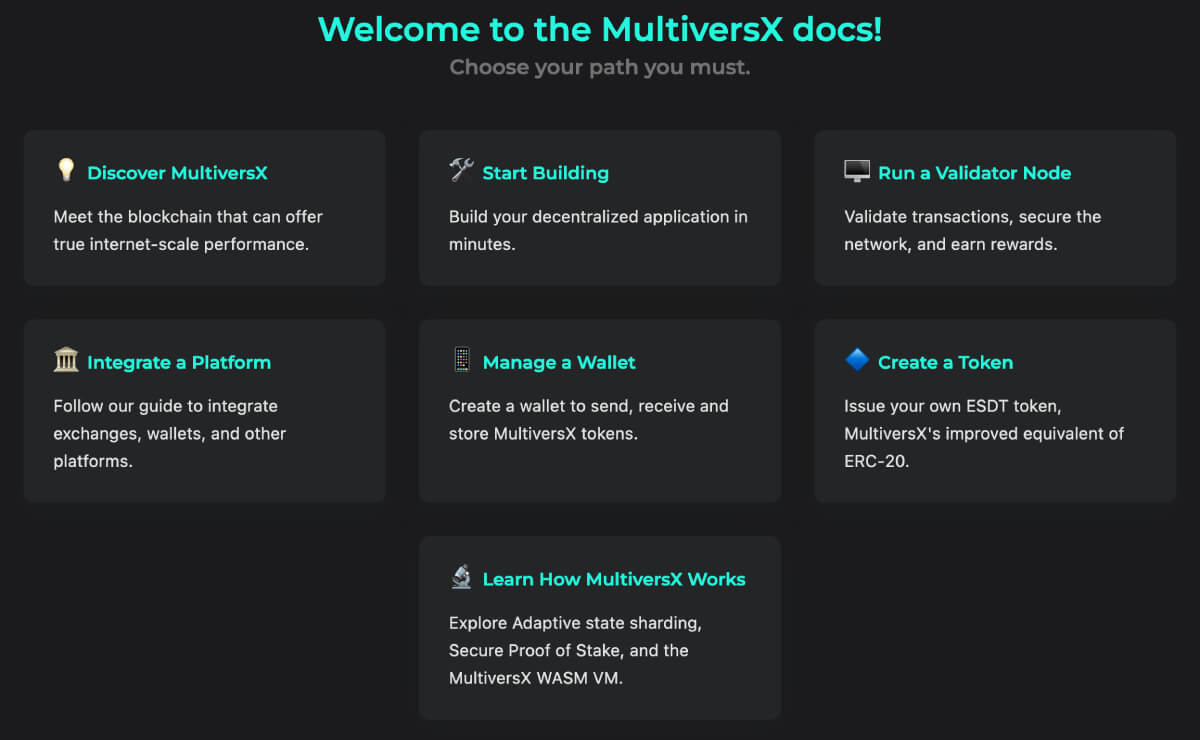
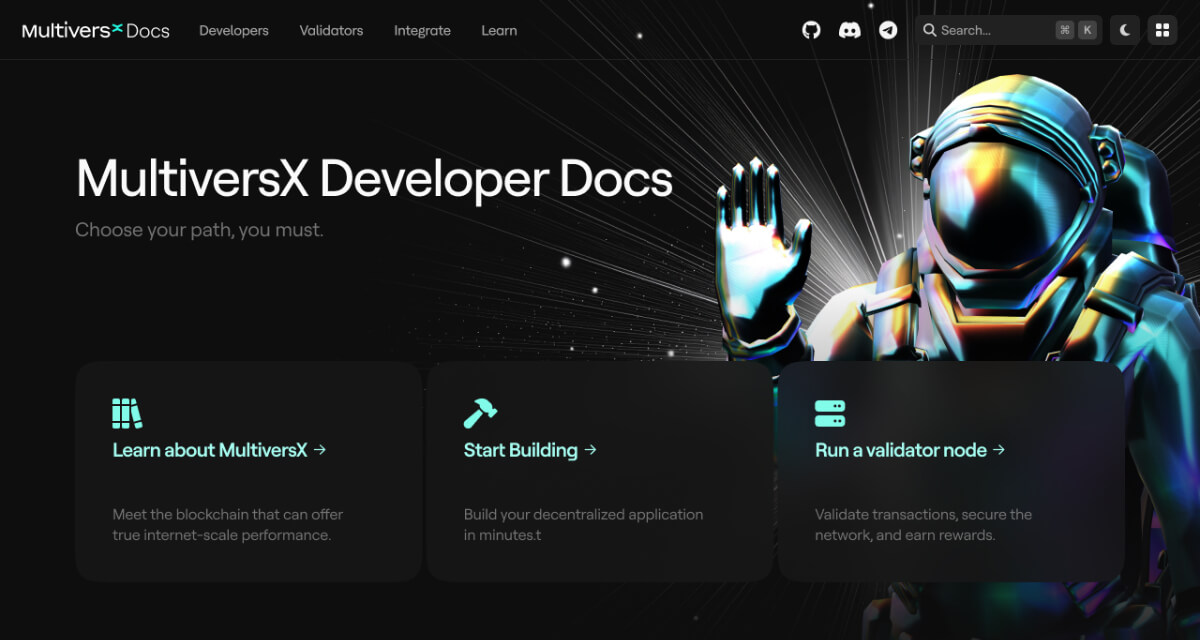
updated manifest

diff --git a/src/components/Section/components/SectionCard.jsx b/src/components/Section/components/SectionCard.jsx
@@ -14,19 +14,60 @@ export const SectionCard = ({
 }) => {
   if (isSmallCard) {
     return (
+      <li>
+        <Link
+          to={link}
+          className={clsx(
+            "section-small-card section-small-shadow w-auto h-[196px] p-10 rounded-2xl border border-solid border-white/5 backdrop-blur-[52px] justify-between items-end inline-flex hover:no-underline bg-white hover:bg-teal-50 dark:bg-transparent dark:hover:bg-neutral-900/80",
+            className
+          )}
+        >
+          <div className="grow shrink basis-0 self-stretch rounded-2xl flex-col justify-between items-start inline-flex">
+            <div className="self-stretch flex-col justify-start items-start gap-3 flex">
+              <div className="justify-start items-center gap-1 inline-flex">
+                <div className="text-primary text-lg font-semibold leading-normal">
+                  {title}
+                </div>
+                <div className="w-4 h-4 justify-center items-center flex">
+                  <FontAwesomeIcon
+                    icon={faArrowRight}
+                    className="text-center text-primary text-sm"
+                  />
+                </div>
+              </div>
+            </div>
+            <p className="ms-0 mb-0 self-stretch text-neutral-500 text-sm leading-tight">
+              {text}
+            </p>
+          </div>
+        </Link>
+      </li>
+    );
+  }
+
+  return (
+    <li>
       <Link
         to={link}
         className={clsx(
-          "section-small-card section-small-shadow w-auto h-[196px] p-10 rounded-2xl border border-solid border-white/5 backdrop-blur-[52px] justify-between items-end inline-flex hover:no-underline bg-white hover:bg-teal-50 dark:bg-transparent dark:hover:bg-neutral-900/80",
+          "section-card section-shadow grow shrink basis-0 h-[236px] p-10 rounded-3xl backdrop-blur-[50px] justify-between items-end flex hover:no-underline bg-white hover:bg-teal-50 dark:bg-neutral-900/80 dark:hover:bg-neutral-800/80",
           className
         )}
       >
         <div className="grow shrink basis-0 self-stretch rounded-2xl flex-col justify-between items-start inline-flex">
-          <div className="self-stretch flex-col justify-start items-start gap-3 flex">
-            <div className="justify-start items-center gap-1 inline-flex">
-              <dt className="text-primary text-lg font-semibold leading-normal">
+          <div className="self-stretch h-[65px] flex-col justify-start items-start gap-3 flex">
+            {icon && (
+              <div className="justify-center items-center inline-flex">
+                <FontAwesomeIcon
+                  icon={icon}
+                  className="card-icon text-center text-primary text-[32px] font-black"
+                />
+              </div>
+            )}
+            <div className="self-stretch justify-start items-center gap-1 inline-flex">
+              <div className="text-primary text-[21px] font-semibold leading-[21px]">
                 {title}
-              </dt>
+              </div>
               <div className="w-4 h-4 justify-center items-center flex">
                 <FontAwesomeIcon
                   icon={faArrowRight}
@@ -35,46 +76,9 @@ export const SectionCard = ({
               </div>
             </div>
           </div>
-          <dd className="ms-0 self-stretch text-neutral-500 text-sm leading-tight">
-            {text}
-          </dd>
+          <p className="ms-0 mb-0 text-neutral-500 leading-snug">{text}</p>
         </div>
       </Link>
-    );
-  }
-
-  return (
-    <Link
-      to={link}
-      className={clsx(
-        "section-card section-shadow grow shrink basis-0 h-[236px] p-10 rounded-3xl backdrop-blur-[50px] justify-between items-end flex hover:no-underline bg-white hover:bg-teal-50 dark:bg-neutral-900/80 dark:hover:bg-neutral-800/80",
-        className
-      )}
-    >
-      <div className="grow shrink basis-0 self-stretch rounded-2xl flex-col justify-between items-start inline-flex">
-        <div className="self-stretch h-[65px] flex-col justify-start items-start gap-3 flex">
-          {icon && (
-            <div className="justify-center items-center inline-flex">
-              <FontAwesomeIcon
-                icon={icon}
-                className="card-icon text-center text-primary text-[32px] font-black"
-              />
-            </div>
-          )}
-          <div className="self-stretch justify-start items-center gap-1 inline-flex">
-            <dt className="text-primary text-[21px] font-semibold leading-[21px]">
-              {title}
-            </dt>
-            <div className="w-4 h-4 justify-center items-center flex">
-              <FontAwesomeIcon
-                icon={faArrowRight}
-                className="text-center text-primary text-sm"
-              />
-            </div>
-          </div>
-        </div>
-        <dd className="ms-0 text-neutral-500 leading-snug">{text}</dd>
-      </div>
-    </Link>
+    </li>
   );
 };

diff --git a/src/components/Section/index.jsx b/src/components/Section/index.jsx
@@ -26,9 +26,9 @@ const Section = ({
         )}
       </div>
       {cards.length > 0 && (
-        <dl
+        <ul
           className={clsx(
-            "cards grid gap-1 mt-3xl",
+            "list-none pl-0 my-4 cards grid gap-1 mt-3xl",
             {
               "grid-cols-1 sm:grid-cols-2 md:grid-cols-3 lg:grid-cols-4":
                 hasSmallCards,
@@ -44,12 +44,12 @@ const Section = ({
               isSmallCard={hasSmallCards}
             />
           ))}
-        </dl>
+        </ul>
       )}
       {links.length > 0 && (
         <ul
           className={clsx(
-            "links justify-start items-center gap-x-6 gap-y-2 inline-flex flex-wrap pl-0 mb-0"
+            "list-none pl-0 my-0 links justify-start items-center gap-x-6 gap-y-2 inline-flex flex-wrap"
           )}
         >
           {links.map((link) => (
